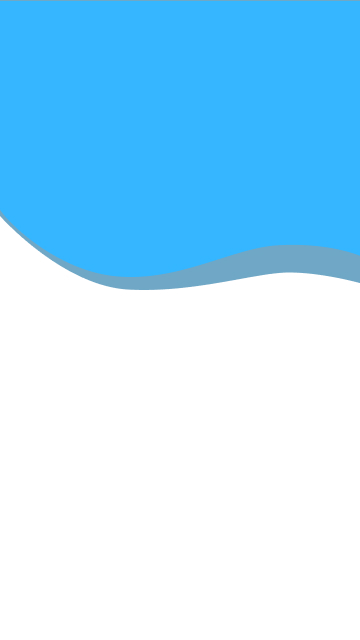
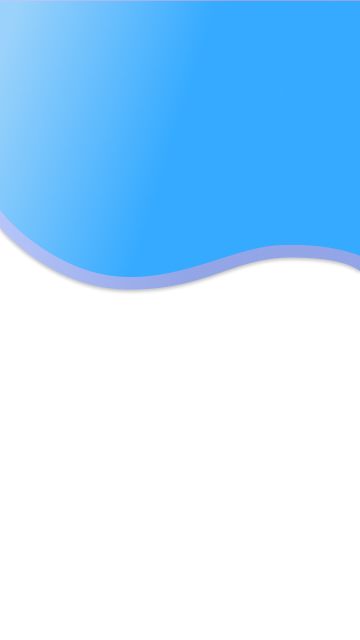
Tweak colors

Changed region(s): [[0.0, 0.0, 1.0, 0.4688]]

diff --git a/css/style.css b/css/style.css
@@ -1,7 +1,4 @@
-/*@font-face {
-  font-family: 'Roboto';
-  src: url(css/fonts/Roboto-Thin.tff);
-}*/
+
 
 html, body {
   min-height: 100%;
@@ -21,7 +18,8 @@ html, body {
 body {
   height: 100%;
   width: 100%;
-  font-family: "Roboto", serif;
+  font-family: "Roboto", sans-serif;
+  font-weight: 300;
 }
 
 
@@ -120,15 +118,16 @@ CLEAR BUTTON
   display: flex;
   justify-content: center;
   align-self: center;
-  -webkit-transform: scale(1.4);
+  -webkit-transform: scale(1.2);
 }
 
 .clear-button {
-  color: #ff3551;
+  color: #ff3545;
 }
 
 .clear-button:hover {
-  background-color: #ff3551;
+  /*background-color: #ff3551;*/
+  background-color: #ff3545;
   color: white;
 }
 
@@ -139,18 +138,22 @@ AUX BUTTONS
 */
 
 #backspace {
-  font-size: 2.1rem;
+  font-size: 1.9rem;
 }
 
 #negative {
   font-size: 1.7rem;
 }
 
+#decimal {
+  font-weight: 500;
+}
+
 .aux {
   display: flex;
   justify-content: center;
   align-self: center;
-  -webkit-transform: scale(1.2);
+  -webkit-transform: scale(1);
 }
 
 .aux-button {
@@ -201,7 +204,7 @@ OPERATOR and EQUALS BUTTONS
   align-self: center;
   line-height: 100%;
   /*padding-bottom: 10%;*/
-  -webkit-transform: scale(1.4);
+  -webkit-transform: scale(1.2);
 }
 
 .equals {
@@ -216,18 +219,19 @@ OPERATOR and EQUALS BUTTONS
 
 
 .operator-button {
-  color: #ff7e35;
+  color: #ff8a35;
   background-color: white;
 }
 
 .operator-button:hover {
   color: white;
-  background-color: #ff7e35;
+  background-color: #ff8a35;
 }
 
 .equals-button {
   color: white;
-  background-color: #35B6FF;
+  /*background-color: #35B6FF;*/
+  background-color: #35AAFF;
 }
 
 .equals-button:hover {
@@ -244,6 +248,7 @@ OPERATOR and EQUALS BUTTONS
   margin-top: 35%;
   padding-right: 1.5rem;
   font-size: 3em;
+  font-weight: 500;
   color: white;
   overflow: hidden;
   white-space: nowrap;

diff --git a/index.html b/index.html
@@ -4,7 +4,7 @@
   <meta charset="UTF-8">
   <meta name="viewport" content="width=device-width, initial-scale=1.0">
   <meta http-equiv="X-UA-Compatible" content="ie=edge">
-  <link href="https://fonts.googleapis.com/css?family=Roboto:300" rel="stylesheet">
+  <link href="https://fonts.googleapis.com/css?family=Roboto:300,500" rel="stylesheet">
   <link rel="stylesheet" href="https://use.fontawesome.com/releases/v5.0.13/css/all.css" integrity="sha384-DNOHZ68U8hZfKXOrtjWvjxusGo9WQnrNx2sqG0tfsghAvtVlRW3tvkXWZh58N9jp" crossorigin="anonymous">
   <link rel="stylesheet" href="https://stackpath.bootstrapcdn.com/bootstrap/4.1.1/css/bootstrap.min.css" integrity="sha384-WskhaSGFgHYWDcbwN70/dfYBj47jz9qbsMId/iRN3ewGhXQFZCSftd1LZCfmhktB" crossorigin="anonymous">
   <link rel="stylesheet" href="css/style.css">
@@ -37,7 +37,7 @@
       <td>
         <div class="circle-outer">
           <a href="#" class="circle-inner clear-button" id="clear">
-            <span id="clear-styles"><strong>C</strong></span>
+            <span id="clear-styles">C</span>
           </a>
         </div>
       </td>
@@ -211,7 +211,7 @@
       <td>
         <div class="circle-outer">
           <a href="#" class="circle-inner aux-button" id="decimal">
-            <span class="aux"><strong>.</strong></span>
+            <span class="aux">.</span>
           </a>
         </div>
       </td>
